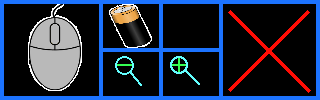
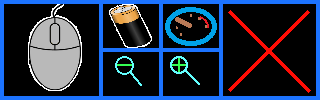
Add support to act as NMEA slave display
(rough base stuff only)

Changed region(s): [[0.5, 0.06, 0.6875, 0.48]]

diff --git a/src/devices/Ili934x/samples/RemoteControl.cs b/src/devices/Ili934x/samples/RemoteControl.cs
@@ -4,6 +4,7 @@
 using System;
 using System.Collections.Generic;
 using System.Diagnostics;
+using System.Globalization;
 using System.IO;
 using System.Linq;
 using System.Net.Sockets;
@@ -21,6 +22,7 @@ using SixLabors.ImageSharp.Drawing.Processing;
 using SixLabors.ImageSharp.PixelFormats;
 using SixLabors.ImageSharp.Processing;
 using UnitsNet;
+using UnitsNet.Units;
 
 namespace Iot.Device.Ili934x.Samples
 {
@@ -50,6 +52,9 @@ namespace Iot.Device.Ili934x.Samples
         private NmeaUdpServer _udpClient;
         private SentenceCache _cache;
 
+        private List<NmeaDataSet> _dataSets;
+        private int _selectedDataSet;
+
         public RemoteControl(Chsc6440? touch, Ili9342 screen, M5ToughPowerControl? powerControl, IDeviceSimulator deviceSimulator, ScreenCapture capture)
         {
             _touch = touch;
@@ -64,7 +69,59 @@ namespace Iot.Device.Ili934x.Samples
             _mouseEnabled = MouseButton.None;
             _clickSimulator = deviceSimulator ?? throw new ArgumentNullException(nameof(deviceSimulator));
             _capture = capture;
+            _dataSets = new List<NmeaDataSet>();
 
+            _dataSets.Add(new NmeaValueDataSet("Speed over Ground", s =>
+            {
+                if (s.TryGetCurrentPosition(out _, out _, out Speed sog, out _))
+                {
+                    return sog.ToUnit(SpeedUnit.Knot);
+                }
+
+                return null;
+            }));
+
+            _dataSets.Add(new NmeaValueDataSet("Speed trough water", s =>
+            {
+                if (s.TryGetLastSentence(WaterSpeedAndAngle.Id, out WaterSpeedAndAngle sentence))
+                {
+                    return sentence.Speed.ToUnit(SpeedUnit.Knot);
+                }
+
+                return null;
+            }));
+
+            _dataSets.Add(new NmeaValueDataSet("Course over Ground", s =>
+            {
+                if (s.TryGetCurrentPosition(out _, out Angle track, out _, out _))
+                {
+                    return track;
+                }
+
+                return null;
+            }, "F1"));
+
+            _dataSets.Add(new NmeaValueDataSet("Heading", s =>
+            {
+                if (s.TryGetLastSentence(HeadingTrue.Id, out HeadingTrue sentence))
+                {
+                    return sentence.Angle;
+                }
+
+                return null;
+            }, "F1"));
+
+            _dataSets.Add(new NmeaValueDataSet("Depth below Surface", s =>
+            {
+                if (s.TryGetLastSentence(DepthBelowSurface.Id, out DepthBelowSurface sentence))
+                {
+                    return sentence.Depth.ToUnit(LengthUnit.Meter);
+                }
+
+                return null;
+            }));
+
+            _selectedDataSet = 0;
             _leftMouseMenuBar = Image.Load<Rgba32>("images/MenuBarLeftMouse.png");
             _rightMouseMenuBar = Image.Load<Rgba32>("images/MenuBarRightMouse.png");
             _defaultMenuBar = Image.Load<Rgba32>("images/MenuBar.png");
@@ -95,6 +152,13 @@ namespace Iot.Device.Ili934x.Samples
                 else if (point.Y < 50 && point.X > 100 && point.X < 160)
                 {
                     _screenMode = ScreenMode.Battery;
+                    _mouseEnabled = MouseButton.None;
+                    _menuMode = false;
+                }
+                else if (point.Y < 50 && point.X >= 160 && point.X < 220)
+                {
+                    _screenMode = ScreenMode.NmeaValue;
+                    _mouseEnabled = MouseButton.None;
                     _menuMode = false;
                 }
                 else if (point.Y > 50 && point.X > 100 && point.X < 160)
@@ -131,10 +195,17 @@ namespace Iot.Device.Ili934x.Samples
                     return;
                 }
 
-                if (_mouseEnabled != MouseButton.None)
+                if (_screenMode == ScreenMode.Mirror)
                 {
-                    var pt = ToAbsoluteScreenPosition(point);
-                    _clickSimulator.Click(pt.X, pt.Y, _mouseEnabled);
+                    if (_mouseEnabled != MouseButton.None)
+                    {
+                        var pt = ToAbsoluteScreenPosition(point);
+                        _clickSimulator.Click(pt.X, pt.Y, _mouseEnabled);
+                    }
+                }
+                else if (_screenMode == ScreenMode.NmeaValue)
+                {
+                    _selectedDataSet = (_selectedDataSet + 1) % _dataSets.Count;
                 }
             }
         }
@@ -146,6 +217,11 @@ namespace Iot.Device.Ili934x.Samples
 
         private void OnDragging(object o, DragEventArgs e)
         {
+            if (_screenMode != ScreenMode.Mirror)
+            {
+                return;
+            }
+
             if (_mouseEnabled == MouseButton.Left)
             {
                 var pos = ToAbsoluteScreenPosition(e.CurrentPoint);
@@ -232,6 +308,9 @@ namespace Iot.Device.Ili934x.Samples
                         break;
                     case ScreenMode.Battery:
                         DrawPowerStatus();
+                        break;
+                    case ScreenMode.NmeaValue:
+                        DrawNmeaValue();
                         break;
                     default:
                         _screen.ClearScreen();
@@ -320,6 +399,23 @@ namespace Iot.Device.Ili934x.Samples
             }
         }
 
+        private void DrawNmeaValue()
+        {
+            _screen.ClearScreen(Color.White);
+            if (_cache.TryGetCurrentPosition(out var position, true, out Angle track, out Speed sog, out Angle? heading))
+            {
+                using Image<Rgba32> bmp = _screen.CreateBackBuffer();
+                Font font = GetFont(110);
+                Font smallFont = GetFont(30);
+                var data = _dataSets[_selectedDataSet];
+                data.Update(_cache);
+                bmp.Mutate(x => x.DrawText(data.Value, font, SixLabors.ImageSharp.Color.Blue, new PointF(20, 30)));
+                bmp.Mutate(x => x.DrawText(data.Name, smallFont, SixLabors.ImageSharp.Color.Blue, new PointF(10, 5)));
+                bmp.Mutate(x => x.DrawText(data.Unit, smallFont, SixLabors.ImageSharp.Color.Blue, new PointF(_screen.ScreenWidth / 2, _screen.ScreenHeight - 33)));
+                _screen.DrawBitmap(bmp);
+            }
+        }
+
         private void DemoMode()
         {
             while (!Console.KeyAvailable && (_touch != null && !_touch.IsPressed()))
@@ -348,18 +444,18 @@ namespace Iot.Device.Ili934x.Samples
             }
         }
 
-        private Font GetSmallFont()
+        private Font GetFont(float size)
         {
             if (Environment.OSVersion.Platform == PlatformID.Win32NT)
             {
                 FontFamily family = SystemFonts.Get("Arial");
-                Font font = new Font(family, 20);
+                Font font = new Font(family, size);
                 return font;
             }
             else
             {
                 FontFamily family = SystemFonts.Get("Liberation Sans");
-                Font font = new Font(family, 20);
+                Font font = new Font(family, size);
                 return font;
             }
         }
@@ -370,7 +466,7 @@ namespace Iot.Device.Ili934x.Samples
             {
                 var pc = _powerControl.GetPowerControlData();
                 using Image<Rgba32> bmp = _screen.CreateBackBuffer();
-                Font font = GetSmallFont();
+                Font font = GetFont(20);
                 bmp.Mutate(x => x.DrawText(pc.ToString(), font, SixLabors.ImageSharp.Color.Blue, new PointF(0, 10)));
                 _screen.DrawBitmap(bmp);
             }

diff --git a/src/devices/Ili934x/samples/NmeaValueDataSet.cs b/src/devices/Ili934x/samples/NmeaValueDataSet.cs
@@ -1,0 +1,61 @@
+// Licensed to the .NET Foundation under one or more agreements.
+// The .NET Foundation licenses this file to you under the MIT license.
+
+using System;
+using System.Collections.Generic;
+using System.Globalization;
+using System.Linq;
+using System.Text;
+using System.Threading.Tasks;
+using Iot.Device.Nmea0183;
+using UnitsNet;
+
+namespace Iot.Device.Ili934x.Samples
+{
+    internal class NmeaValueDataSet : NmeaDataSet
+    {
+        private readonly Func<SentenceCache, IQuantity?> _valueFunc;
+        private readonly string _format;
+        private IQuantity? _lastValue;
+
+        public NmeaValueDataSet(String name, Func<SentenceCache, IQuantity?> valueFunc, string format = "F2")
+        : base(name)
+        {
+            _valueFunc = valueFunc;
+            _format = format;
+            _lastValue = null;
+        }
+
+        public override string Value
+        {
+            get
+            {
+                if (_lastValue == null)
+                {
+                    return "N/A";
+                }
+
+                return _lastValue.Value.ToString(_format, CultureInfo.CurrentCulture);
+            }
+        }
+
+        public override string Unit
+        {
+            get
+            {
+                if (_lastValue == null)
+                {
+                    return string.Empty;
+                }
+
+                var unitName = _lastValue.Unit;
+                return unitName.ToString();
+            }
+        }
+
+        public override void Update(SentenceCache cache)
+        {
+            _lastValue = _valueFunc.Invoke(cache);
+        }
+    }
+}

diff --git a/src/devices/Ili934x/samples/NmeaDataSet.cs b/src/devices/Ili934x/samples/NmeaDataSet.cs
@@ -1,0 +1,38 @@
+// Licensed to the .NET Foundation under one or more agreements.
+// The .NET Foundation licenses this file to you under the MIT license.
+
+using System;
+using System.Collections.Generic;
+using System.Linq;
+using System.Text;
+using System.Threading.Tasks;
+using Iot.Device.Nmea0183;
+using UnitsNet;
+
+namespace Iot.Device.Ili934x.Samples
+{
+    internal abstract class NmeaDataSet
+    {
+        public NmeaDataSet(string name)
+        {
+            Name = name;
+        }
+
+        public string Name
+        {
+            get;
+        }
+
+        public abstract string Value
+        {
+            get;
+        }
+
+        public abstract string Unit
+        {
+            get;
+        }
+
+        public abstract void Update(SentenceCache cache);
+    }
+}

diff --git a/src/devices/Nmea0183/samples/NmeaSimulator/NmeaSimulator.cs b/src/devices/Nmea0183/samples/NmeaSimulator/NmeaSimulator.cs
@@ -66,8 +66,8 @@ namespace Nmea.Simulator
                 _terminate = false;
                 if (!ReplayFiles.Any())
                 {
-                _simulatorThread = new Thread(MainSimulator);
-                _simulatorThread.Start();
+                    _simulatorThread = new Thread(MainSimulator);
+                    _simulatorThread.Start();
                 }
                 else
                 {

diff --git a/src/devices/Ili934x/samples/ScreenMode.cs b/src/devices/Ili934x/samples/ScreenMode.cs
@@ -14,5 +14,6 @@ namespace Iot.Device.Ili934x.Samples
         None,
         Mirror,
         Battery,
+        NmeaValue,
     }
 }
